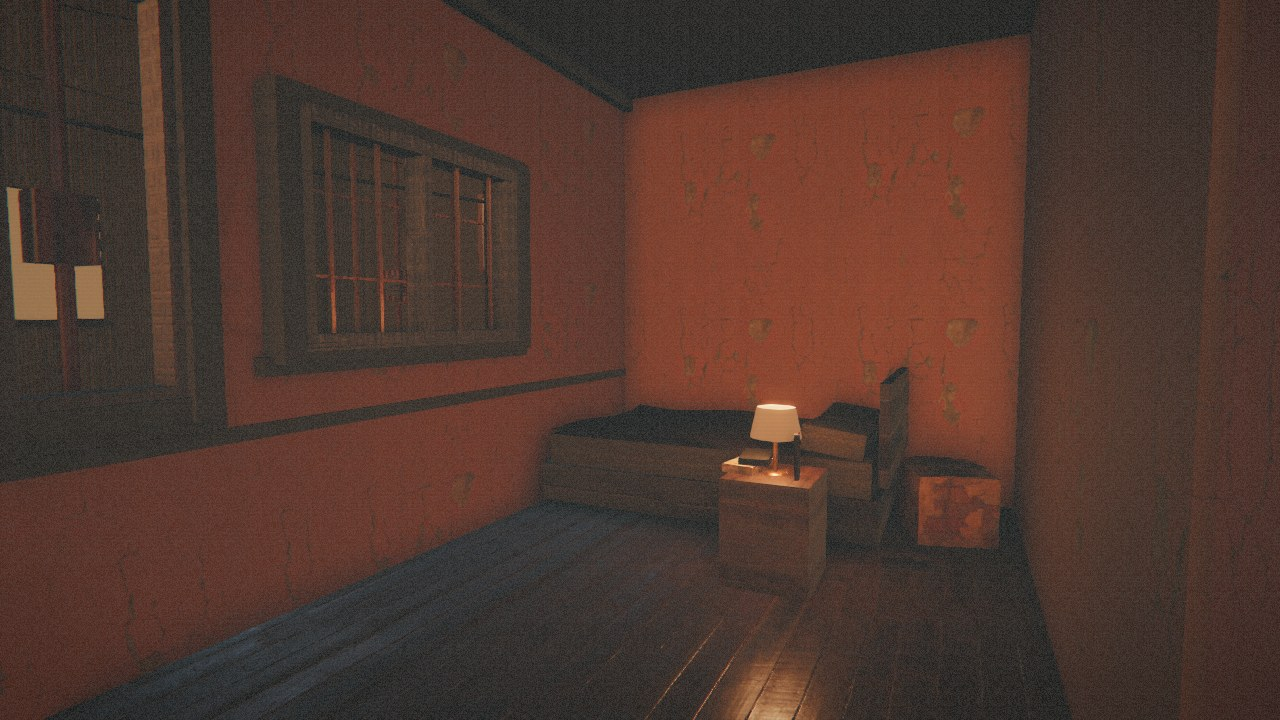
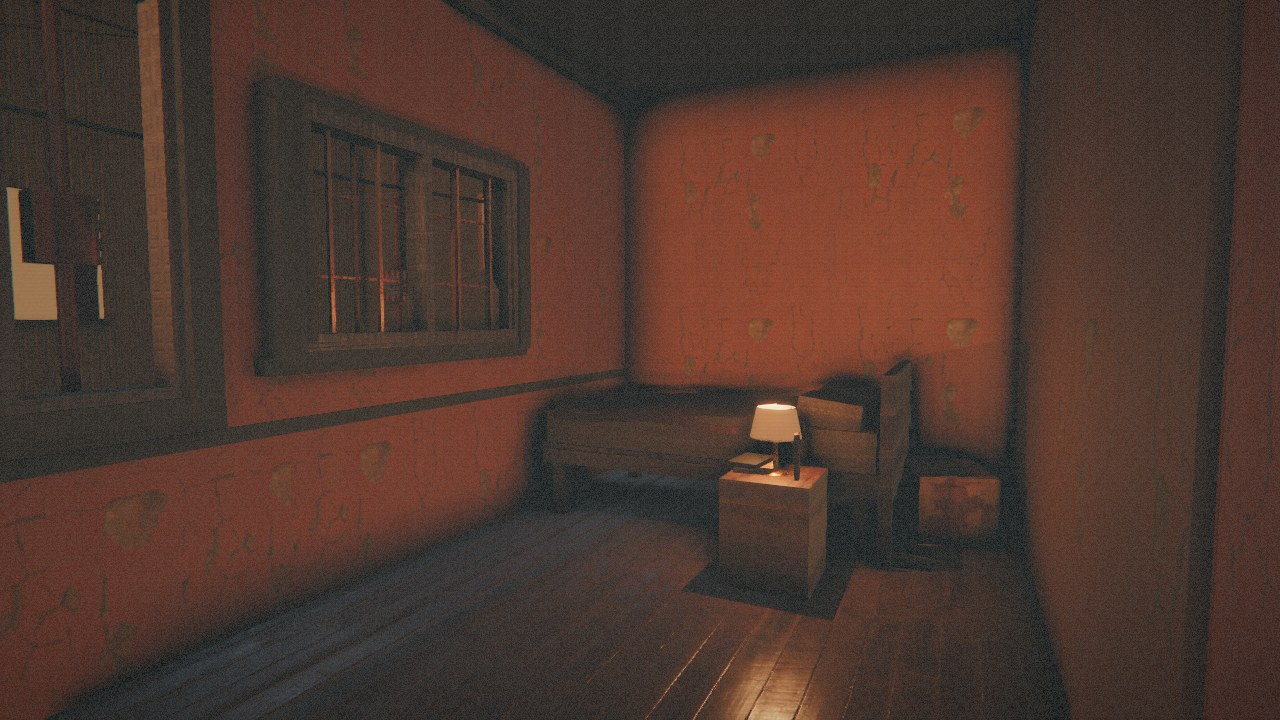
R1-R4 收尾：README 记录 + 四张 README 截图按新模型重拍（shop/bath/bed/stairs）

diff --git a/README.md b/README.md
@@ -179,6 +179,13 @@ python tools/genart.py
 - **馬桶重做**：方形底座改錐形陶瓷柱 + 外撇腳座，加圈沿、坐圈、立起蓋板同鉸位，近看唔再似紙箱
 - 自檢：浴室四個機位截圖（俯視／門口／廣角／貼牆），0 疊面、0 木地板殘留；全流程 `ended: true`、五段切換 0 幀 > 28 ms、programs 88
 
+### 2026-11-06（深夜 · R1–R4：評分後修補）
+- **馬桶**：座高 0.585→0.44 m（原本似吧凳）、水箱貼牆（背距 4 cm）、補連接肩／下水管／蓋板鉸鏈
+- **床**：由一塊板改成床腿 + 床架 + 厚床墊 + 被套（邊緣下垂）+ 摺邊 + 枕頭 + 0.95 m 床頭板
+- **藥罐／算盤**：藥罐加紙標籤（復用 labelSheet，72 款隨機）；算盤改淺木框 + 紅木珠 + 上二下四珠
+- **櫃檯與樓梯**：檯面由 `dark_paneled_wood`（喺檯面讀成棋盤玻璃）改用深木紋；踏步與防滑條改啞光
+- **HUD**：目標提示 15→18 px、改四向文字陰影（唔再用半透明底板）；交互提示 15→16 px 提亮
+
 ### 2026-11-06（深夜 · C 組：鏡子、交互、門五金）
 - **鏡中自己**：玩家冇身體，鏡一直照出空房。新增 layer-2 反射專用剪影（頭／頸／肩／身），跟玩家位置同朝向，只出現在鏡面反射、第一人稱見唔到；頭髮用低粗糙度接住燈管高光，免得住讀成一塊黑斑
 - **可交互**：浴室水喉（開／關：水柱 + 水聲 + 字幕）、藥行收音機（開／關：沙沙聲 + 50 Hz 嗡聲 + 面板紅色指示燈）
